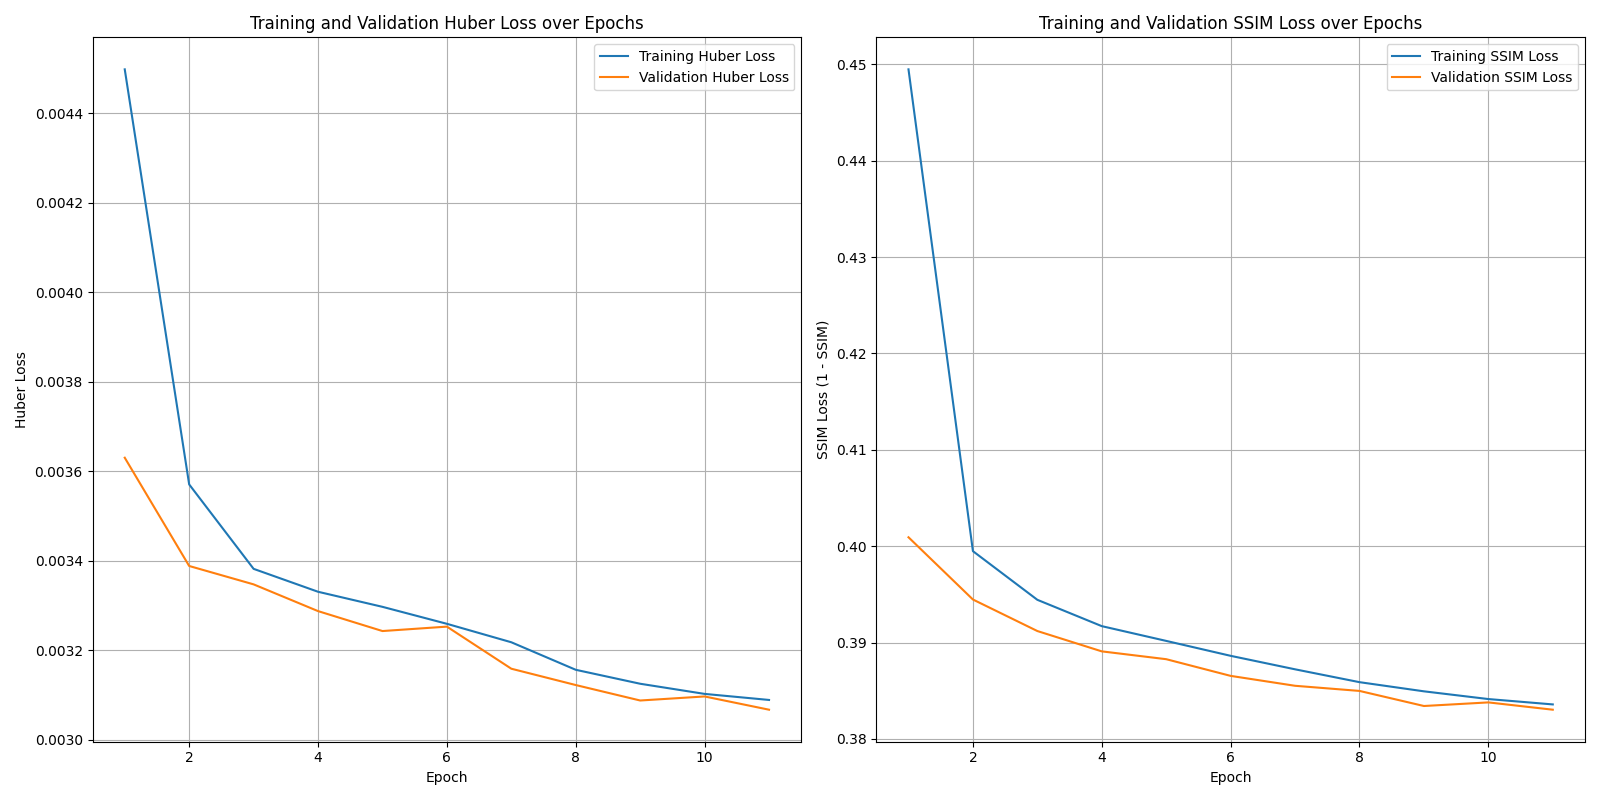
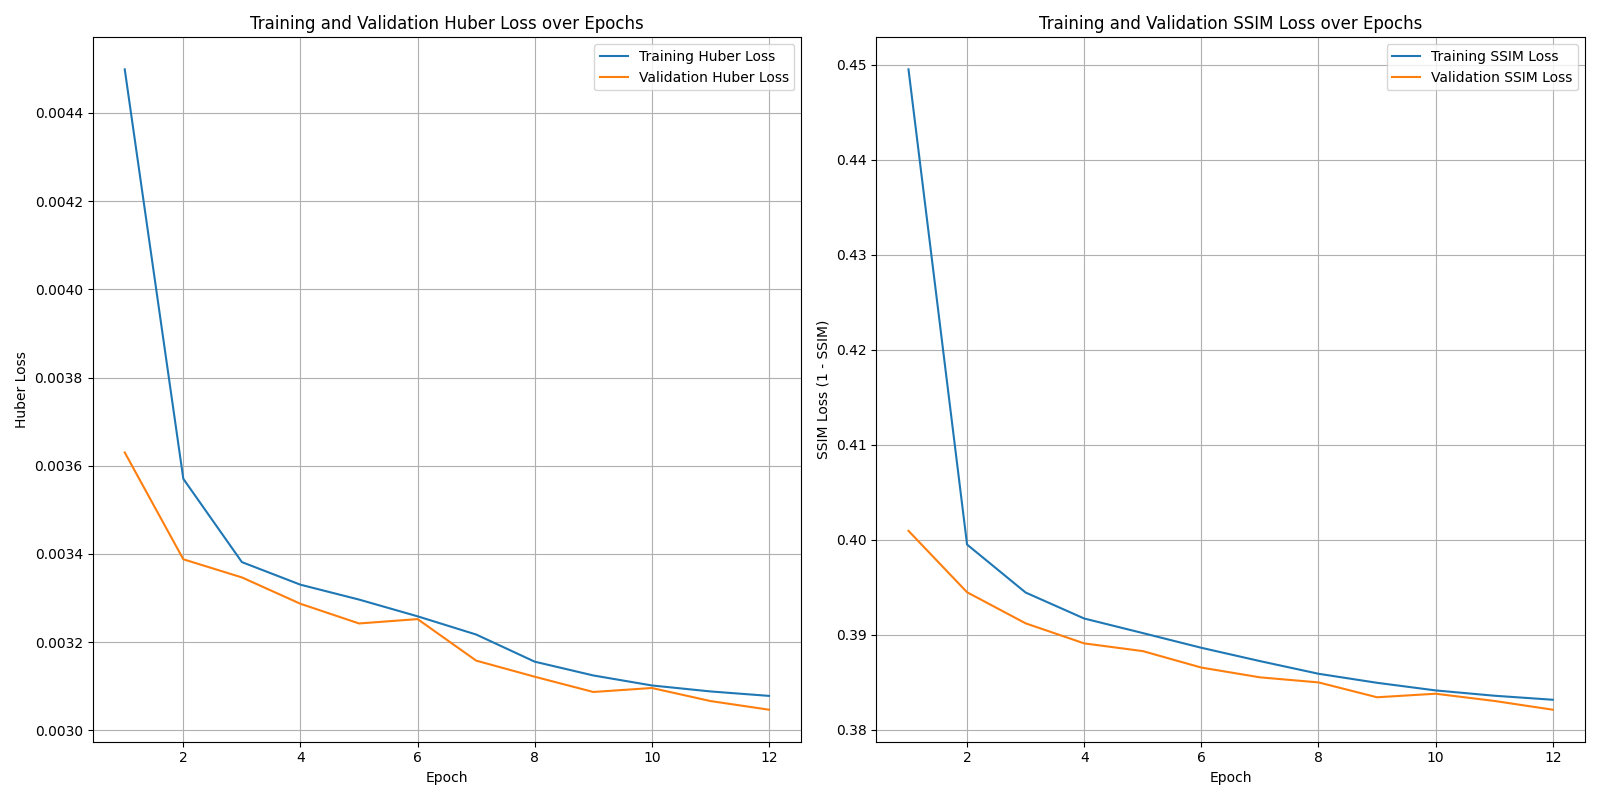
introduced pizza in a box

diff --git a/train.py b/train.py
@@ -15,6 +15,30 @@ from utils import *
 from model import *
 from dataset import *
 
+def create_circular_mask(image_size, device):
+    y, x = torch.meshgrid(torch.linspace(-1, 1, image_size, device=device), torch.linspace(-1, 1, image_size, device=device), indexing='ij')
+    mask = (x**2 + y**2) <= 1
+    return mask.float()
+
+def create_cake_mask(image_size, n_phi, phi, device):
+    y, x = torch.meshgrid(torch.linspace(-1, 1, image_size, device=device), torch.linspace(-1, 1, image_size, device=device), indexing='ij')
+    angles = torch.atan2(y, x)
+    angles[angles < 0] += 2 * np.pi  # Normalize angles to [0, 2*pi]
+    slice_angles = 2 * np.pi / n_phi
+
+    mask = torch.zeros((phi.size(0), image_size, image_size), device=device)  # Initialize mask for the entire batch
+    for i in range(n_phi):
+        mask += ((angles >= i * slice_angles) & (angles < (i + 1) * slice_angles)).float() * phi[:, i].view(-1, 1, 1)
+
+    return mask
+
+def apply_masks_and_compute_loss(reconstructed, original, mask, criterion):
+    masked_reconstructed = reconstructed * mask
+    masked_original = original * mask
+    loss = criterion(masked_reconstructed, masked_original)
+    loss = loss.mean(dim=1, keepdim=True)  # Average across channels
+    return loss
+
 def train(model, train_loader, val_loader, device, criterion_A, criterion_G, optimizer, epochs=1, save_path='untitled', debug=False):
     model.to(device)
 
@@ -41,6 +65,8 @@ def train(model, train_loader, val_loader, device, criterion_A, criterion_G, opt
 
     embedded_loss = False
 
+    circular_mask = create_circular_mask(image_size, device)
+
     for epoch in range(epochs):
         
         model.train()
@@ -54,22 +80,40 @@ def train(model, train_loader, val_loader, device, criterion_A, criterion_G, opt
                 # Forward Pass
                 reconstructed_A, reconstructed_G, encoded_A, encoded_G, phi, encoded_A_phi, encoded_G_phi = model(images_A, images_G)
 
+                # Apply circular mask
+                masked_reconstructed_A = reconstructed_A * circular_mask
+                masked_images_A = images_A * circular_mask
+
                 # Compute Pixel-wise Loss
                 if embedded_loss:
                     loss_A = nn.functional.l1_loss(encoded_A_phi, encoded_G)
-                    loss_G = nn.functional.l1_loss(encoded_G_phi, encoded_A)
+                    # loss_G = nn.functional.l1_loss(encoded_G_phi, encoded_A)
                 else:
-                    loss_A = criterion_A(reconstructed_A, images_A)
-                    loss_G = criterion_G(reconstructed_G, images_G)
+                    loss_A = criterion_A(masked_reconstructed_A, masked_images_A)
+                    # loss_G = criterion_G(reconstructed_G, images_G)
 
-                
-                huber_loss = loss_A + loss_G
+                # Average across channels
+                loss_A = loss_A.mean(dim=1, keepdim=True)  # [batchsize, 1, imsize, imsize]
+                # loss_G = loss_G.mean(dim=1, keepdim=True)  # [batchsize, 1, imsize, imsize]
+
+                # Create cake mask and apply to loss
+                cake_mask = create_cake_mask(image_size, n_phi, phi, device)
+                masked_loss_A = loss_A * cake_mask
+                # masked_loss_G = loss_G * cake_mask
+
+                # Reduce the loss to a scalar
+                huber_loss_A = masked_loss_A.mean()
+                # huber_loss_G = masked_loss_G.mean()
+
+                # huber_loss = huber_loss_A + huber_loss_G
+                huber_loss = huber_loss_A
                 running_huber_loss += huber_loss.item()
 
                 # Compute SSIM Loss
                 ssim_loss_A = ssim_loss(reconstructed_A, images_A)
-                ssim_loss_G = ssim_loss(reconstructed_G, images_G)
-                ssim_loss_value = 1 - (ssim_loss_A + ssim_loss_G) / 2
+                # ssim_loss_G = ssim_loss(reconstructed_G, images_G)
+                # ssim_loss_value = 1 - (ssim_loss_A + ssim_loss_G) / 2
+                ssim_loss_value = 1 - ssim_loss_A
                 running_ssim_loss += ssim_loss_value.item()
 
                 # Reset Gradients
@@ -89,7 +133,7 @@ def train(model, train_loader, val_loader, device, criterion_A, criterion_G, opt
         train_ssim_losses.append(train_ssim_loss)
 
         # Validation
-        val_huber_loss, val_ssim_loss = validate(model, val_loader, criterion_A, criterion_G, epoch, epochs, results_path, device)
+        val_huber_loss, val_ssim_loss = validate(model, val_loader, criterion_A, criterion_G, epoch, epochs, results_path, device, circular_mask)
         val_huber_losses.append(val_huber_loss)
         val_ssim_losses.append(val_ssim_loss)
 
@@ -117,11 +161,11 @@ def train(model, train_loader, val_loader, device, criterion_A, criterion_G, opt
     if best_model_path:
         print(f'Loading the model from {best_model_path}...')
         model.load_state_dict(torch.load(best_model_path))
-        final_val_loss, final_val_ssim_loss = validate(model, val_loader, criterion_A, criterion_G, "best", epochs, results_path, device)
+        final_val_loss, final_val_ssim_loss = validate(model, val_loader, criterion_A, criterion_G, "best", epochs, results_path, device, circular_mask)
         print(f'Best Validation Loss: {final_val_loss:.4f}')
 
 
-def validate(model, val_loader, criterion_A, criterion_G, epoch, epochs, results_path, device):
+def validate(model, val_loader, criterion_A, criterion_G, epoch, epochs, results_path, device, circular_mask):
     model.eval()
     val_huber_loss = 0
     val_ssim_loss = 0
@@ -136,30 +180,50 @@ def validate(model, val_loader, criterion_A, criterion_G, epoch, epochs, results
             # Forward Pass
             reconstructed_A, reconstructed_G, encoded_A, encoded_G, phi, encoded_A_phi, encoded_G_phi = model(images_A, images_G)
 
+            # Apply circular mask
+            masked_reconstructed_A = reconstructed_A * circular_mask
+            masked_images_A = images_A * circular_mask
+
             # Compute Pixel-wise Loss
             if embedded_loss:
                 loss_A = nn.functional.l1_loss(encoded_A_phi, encoded_G)
-                loss_G = nn.functional.l1_loss(encoded_G_phi, encoded_A)
+                # loss_G = nn.functional.l1_loss(encoded_G_phi, encoded_A)
             else:
-                loss_A = criterion_A(reconstructed_A, images_A)
-                loss_G = criterion_G(reconstructed_G, images_G)
-            huber_loss = loss_A + loss_G
+                loss_A = criterion_A(masked_reconstructed_A, masked_images_A)
+                # loss_G = criterion_G(reconstructed_G, images_G)
+
+            # Average across channels
+            loss_A = loss_A.mean(dim=1, keepdim=True)  # [batchsize, 1, imsize, imsize]
+            # loss_G = loss_G.mean(dim=1, keepdim=True)  # [batchsize, 1, imsize, imsize]
+
+            # Create cake mask and apply to loss
+            cake_mask = create_cake_mask(image_size, n_phi, phi, device)
+            masked_loss_A = loss_A * cake_mask
+            # masked_loss_G = loss_G * cake_mask
+
+            # Reduce the loss to a scalar
+            huber_loss_A = masked_loss_A.mean()
+            # huber_loss_G = masked_loss_G.mean()
+
+            # huber_loss = huber_loss_A + huber_loss_G
+            huber_loss = huber_loss_A
             val_huber_loss += huber_loss.item()
 
             # Compute SSIM Loss
             ssim_loss_A = ssim_loss(reconstructed_A, images_A)
-            ssim_loss_G = ssim_loss(reconstructed_G, images_G)
-            ssim_loss_value = 1 - (ssim_loss_A + ssim_loss_G) / 2
+            # ssim_loss_G = ssim_loss(reconstructed_G, images_G)
+            # ssim_loss_value = 1 - (ssim_loss_A + ssim_loss_G) / 2
+            ssim_loss_value = 1 - ssim_loss_A
             val_ssim_loss += ssim_loss_value.item()
 
             if first_batch:
                 first_batch = False
                 if epoch != "best":
                     visualize_reconstruction(images_A, reconstructed_A, epoch, save_path=os.path.join(results_path, 'aerial', f'epoch_{epoch + 1}_reconstruction.png'))
-                    visualize_reconstruction(images_G, reconstructed_G, epoch, save_path=os.path.join(results_path, 'ground', f'epoch_{epoch + 1}_reconstruction.png'))
+                    # visualize_reconstruction(images_G, reconstructed_G, epoch, save_path=os.path.join(results_path, 'ground', f'epoch_{epoch + 1}_reconstruction.png'))
                 else:
                     visualize_reconstruction(images_A, reconstructed_A, epoch, save_path=os.path.join(results_path, 'aerial', 'best_reconstruction.png'))
-                    visualize_reconstruction(images_G, reconstructed_G, epoch, save_path=os.path.join(results_path, 'ground', 'best_reconstruction.png'))
+                    # visualize_reconstruction(images_G, reconstructed_G, epoch, save_path=os.path.join(results_path, 'ground', 'best_reconstruction.png'))
 
     val_avg_huber_loss = val_huber_loss / len(val_loader)
     val_avg_ssim_loss = val_ssim_loss / len(val_loader)
@@ -198,16 +262,6 @@ if __name__ == '__main__':
     optimizer = optim.Adam(params=params, lr=learning_rate, weight_decay=weight_decay)
 
     # Loss Function
-    # encoder_A = Encoder(latent_dim=n_encoded).to(device)
-    # encoder_G = Encoder(latent_dim=n_encoded).to(device)
-    # for param in encoder_A.parameters():
-    #     param.requires_grad = False
-    # for param in encoder_G.parameters():
-    #     param.requires_grad = False
-    # criterion_A = PerceptualLoss(encoder_A)
-    # criterion_G = PerceptualLoss(encoder_G)
-    # criterion_A = nn.HuberLoss()
-    # criterion_G = nn.HuberLoss()
     criterion_A = nn.HuberLoss(reduction='none')
     criterion_G = nn.HuberLoss(reduction='none')
 

diff --git a/model.py b/model.py
@@ -317,10 +317,10 @@ class PizzaSlicer(nn.Module):
         x = self.fc1(x)
         x = F.elu(x)
         x = self.fc2(x)
-        print("x shape: ", x.shape)
-        print("x: ", x)
+        # print("x shape: ", x.shape)
+        # print("x: ", x)
         x = torch.softmax(x, dim=-1) * self.output_dims
-        print("x softmaxed: ", x)
+        # print("x softmaxed: ", x)
         return x
     
 
@@ -331,9 +331,9 @@ class CrossView(nn.Module):
         self.encoder_A = Encoder(latent_dim=n_encoded)
         self.encoder_G = Encoder(latent_dim=n_encoded)
         self.pizza_slicer = PizzaSlicer(input_dims=2*n_encoded, output_dims=n_phi)
-        self.mlp_A2G = MLP(input_dims=n_phi+n_encoded, output_dims=n_encoded)
+        # self.mlp_A2G = MLP(input_dims=n_phi+n_encoded, output_dims=n_encoded)
         self.mlp_G2A = MLP(input_dims=n_phi+n_encoded, output_dims=n_encoded)
-        self.decoder_A2G = Decoder(input_dims=n_encoded, hidden_dims=hidden_dims, output_channels=output_channels, initial_size=7)
+        # self.decoder_A2G = Decoder(input_dims=n_encoded, hidden_dims=hidden_dims, output_channels=output_channels, initial_size=7)
         self.decoder_G2A = Decoder(input_dims=n_encoded, hidden_dims=hidden_dims, output_channels=output_channels, initial_size=7)
         
         self.image_size = image_size
@@ -346,11 +346,11 @@ class CrossView(nn.Module):
             decoder_G_path = os.path.join('pretrained_models', 'decoder_G.pth')
             self.encoder_A.load_state_dict(torch.load(encoder_A_path))
             self.encoder_G.load_state_dict(torch.load(encoder_G_path))
-            self.decoder_A2G.load_state_dict(torch.load(decoder_G_path))
+            # self.decoder_A2G.load_state_dict(torch.load(decoder_G_path))
             self.decoder_G2A.load_state_dict(torch.load(decoder_A_path))
             freeze(self.encoder_A)
             freeze(self.encoder_G)
-            freeze(self.decoder_A2G)
+            # freeze(self.decoder_A2G)
             freeze(self.decoder_G2A)
 
     
@@ -364,19 +364,20 @@ class CrossView(nn.Module):
         phi = self.pizza_slicer(torch.cat((encoded_A, encoded_G), dim=-1))
 
         # Concatenate the encoded attended images with phi
-        encoded_A_phi = self.mlp_A2G(torch.cat((phi, encoded_A), dim=1))   # -> encoded_G
+        # encoded_A_phi = self.mlp_A2G(torch.cat((phi, encoded_A), dim=1))   # -> encoded_G
         encoded_G_phi = self.mlp_G2A(torch.cat((phi, encoded_G), dim=1))
 
         # Decode the MLP output into reconstructed images
         reconstructed_A = self.decoder_G2A(encoded_G_phi)
-        reconstructed_G = self.decoder_A2G(encoded_A_phi)
+        # reconstructed_G = self.decoder_A2G(encoded_A_phi)
 
         # Print shapes for debugging
         if self.debug:
             print(f"Encoded A shape: {encoded_A.shape}, Encoded G shape: {encoded_G.shape}, "
                   f"Phi shape: {phi.shape}, Concat Phi with Encoded G shape: {torch.cat((phi, encoded_G), dim=1).shape}")
             
-        return reconstructed_A, reconstructed_G, encoded_A, encoded_G, phi, encoded_A_phi, encoded_G_phi
+        # return reconstructed_A, reconstructed_G, encoded_A, encoded_G, phi, encoded_A_phi, encoded_G_phi
+        return reconstructed_A, 0, encoded_A, encoded_G, phi, 0, encoded_G_phi
 
 
 
